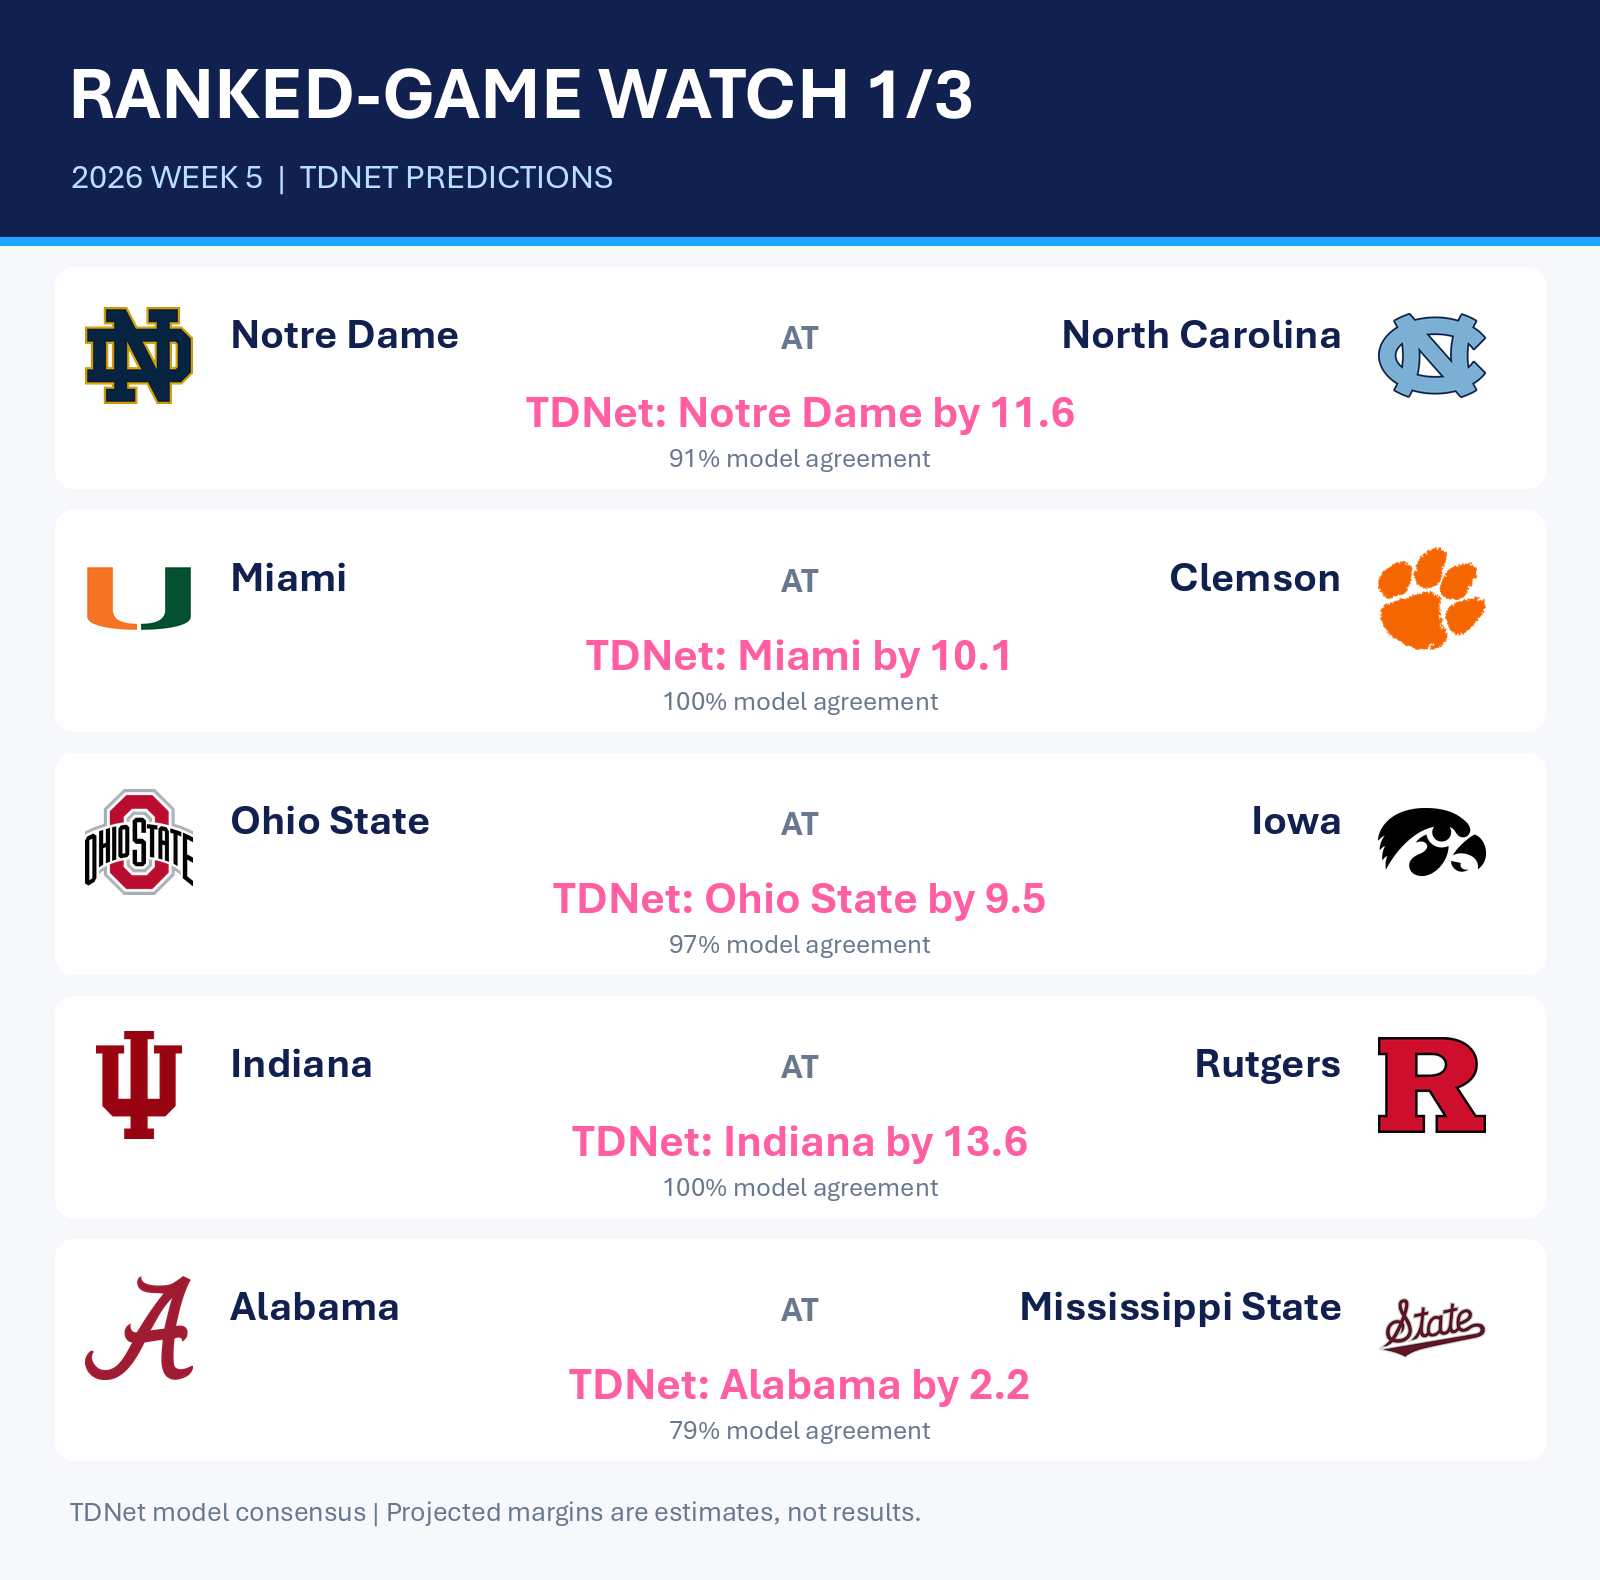
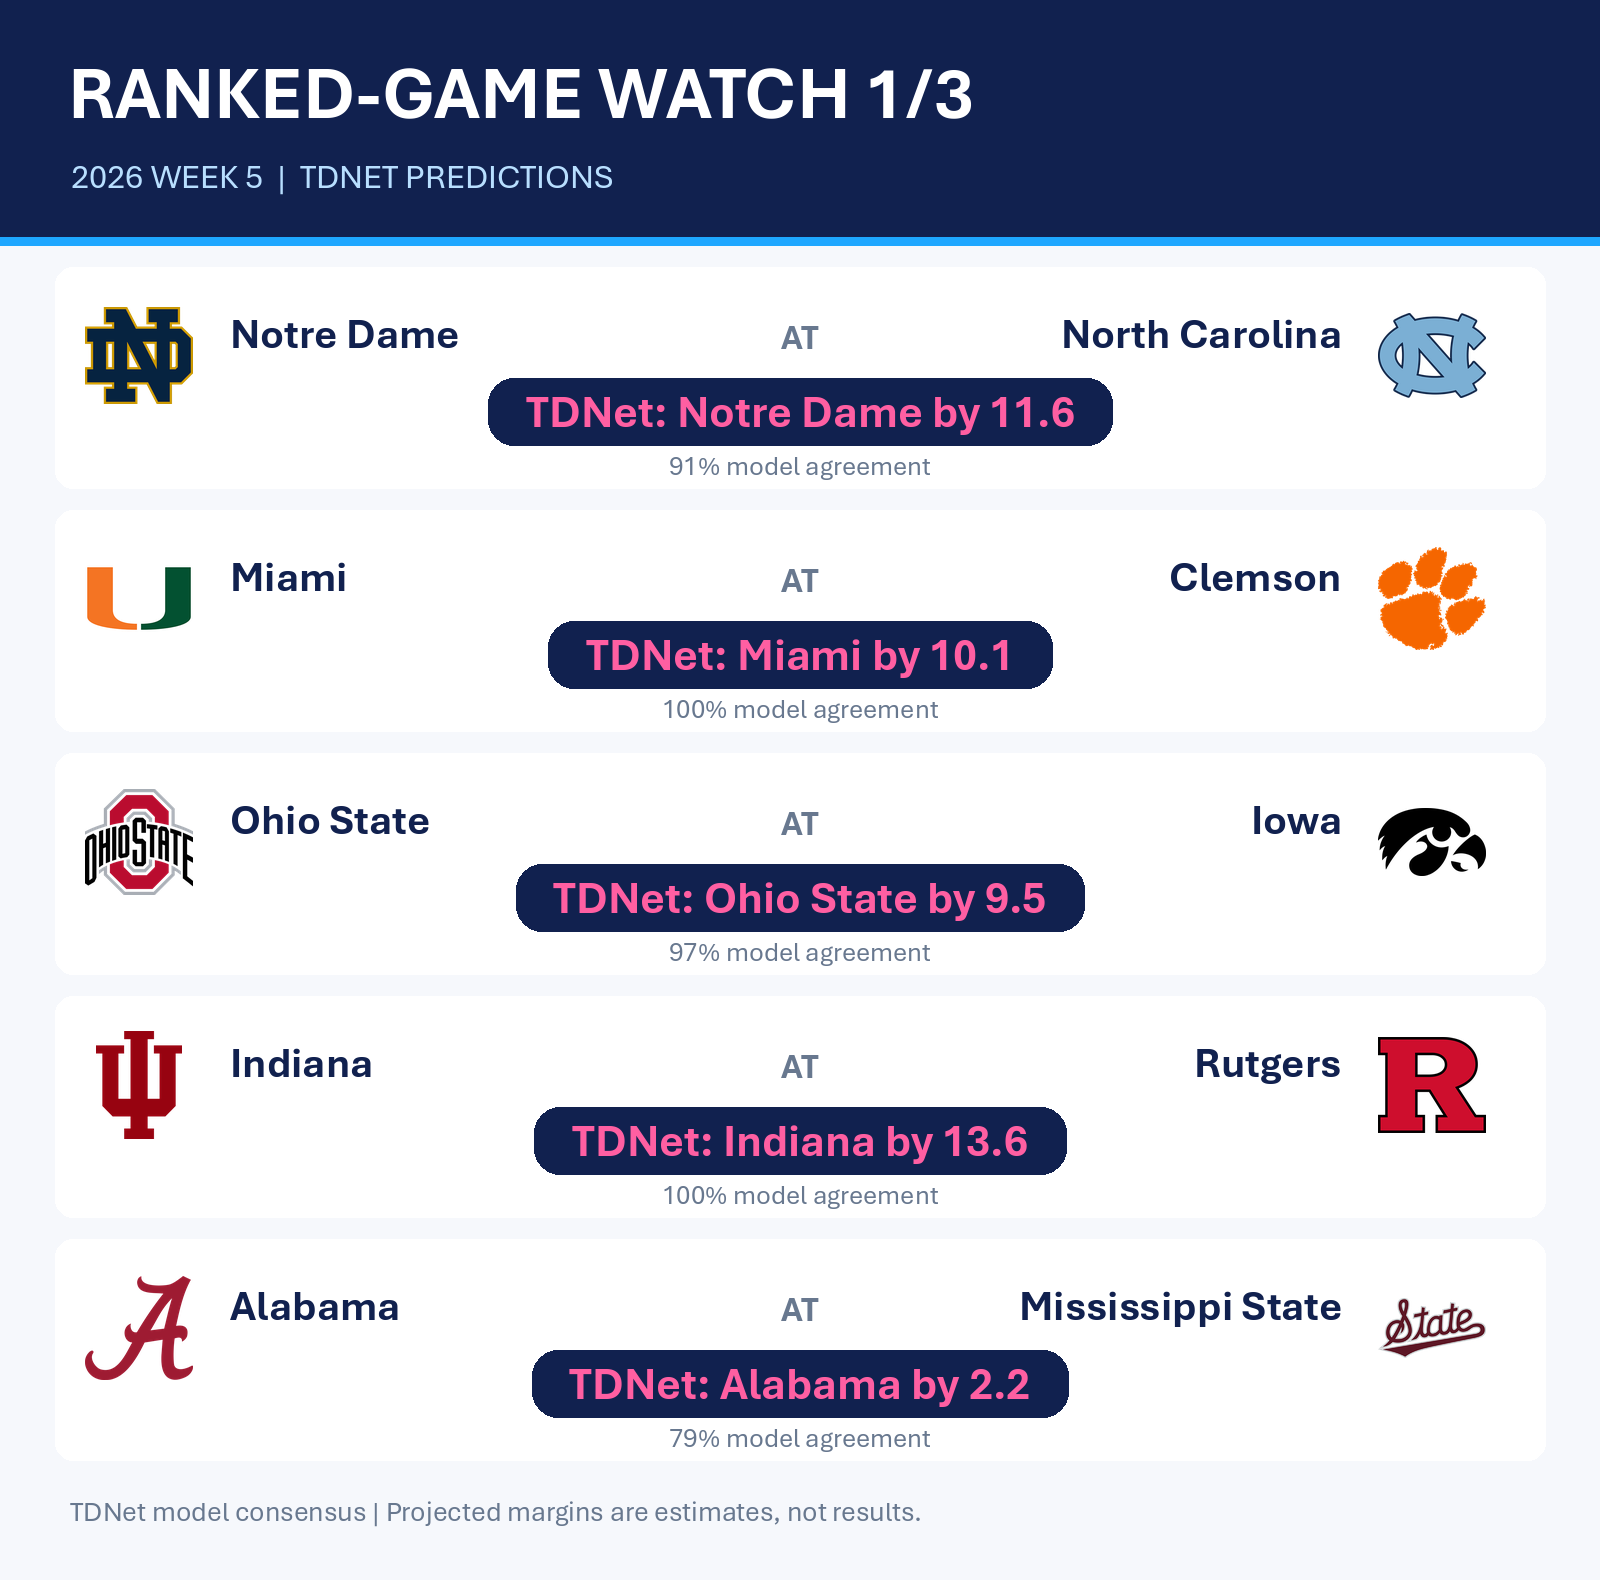
Improve prediction contrast on social matchup cards

diff --git a/scripts/publication/build_social_media.py b/scripts/publication/build_social_media.py
@@ -115,8 +115,17 @@ def render_games(path: Path, games: pd.DataFrame, title: str, subtitle: str) -> 
         draw.text((1342, y + 67), row.home_team, font=fit_text(draw, row.home_team, 440, 42, bold=True), fill=NAVY, anchor="rm")
         margin = float(row.predicted_margin)
         pick = "Essentially even" if margin < 0.05 else f"{row.pred_winner} by {margin:.1f}"
-        draw.text((800, y + 145), f"TDNet: {pick}", font=fit_text(draw, f"TDNet: {pick}", 980, 45, bold=True), fill=PINK, anchor="mm")
-        draw.text((800, y + 191), f"{float(row.model_agreement):.0%} model agreement", font=font(27), fill=MUTED, anchor="mm")
+        prediction = f"TDNet: {pick}"
+        prediction_font = fit_text(draw, prediction, 930, 45, bold=True)
+        text_width = draw.textbbox((0, 0), prediction, font=prediction_font)[2]
+        half_width = (text_width + 76) // 2
+        draw.rounded_rectangle(
+            (800 - half_width, y + 111, 800 + half_width, y + 178),
+            radius=26,
+            fill=NAVY,
+        )
+        draw.text((800, y + 145), prediction, font=prediction_font, fill=PINK, anchor="mm")
+        draw.text((800, y + 199), f"{float(row.model_agreement):.0%} model agreement", font=font(27), fill=MUTED, anchor="mm")
     canvas.save(path, optimize=True)
 
 
